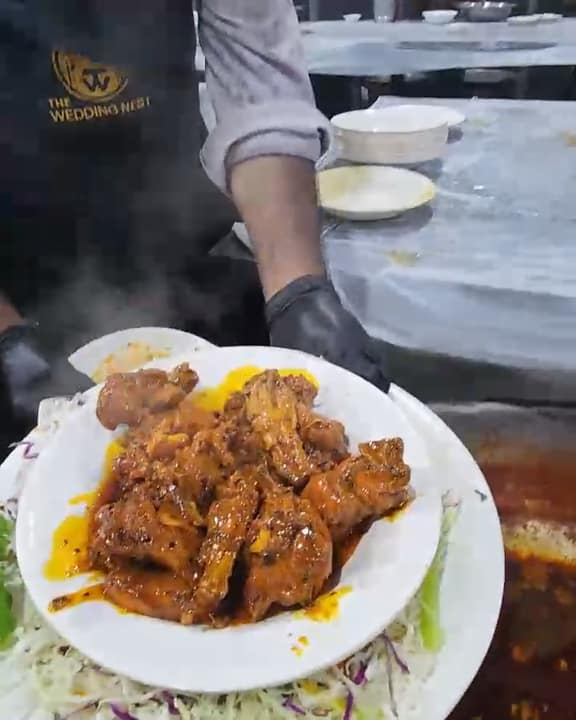
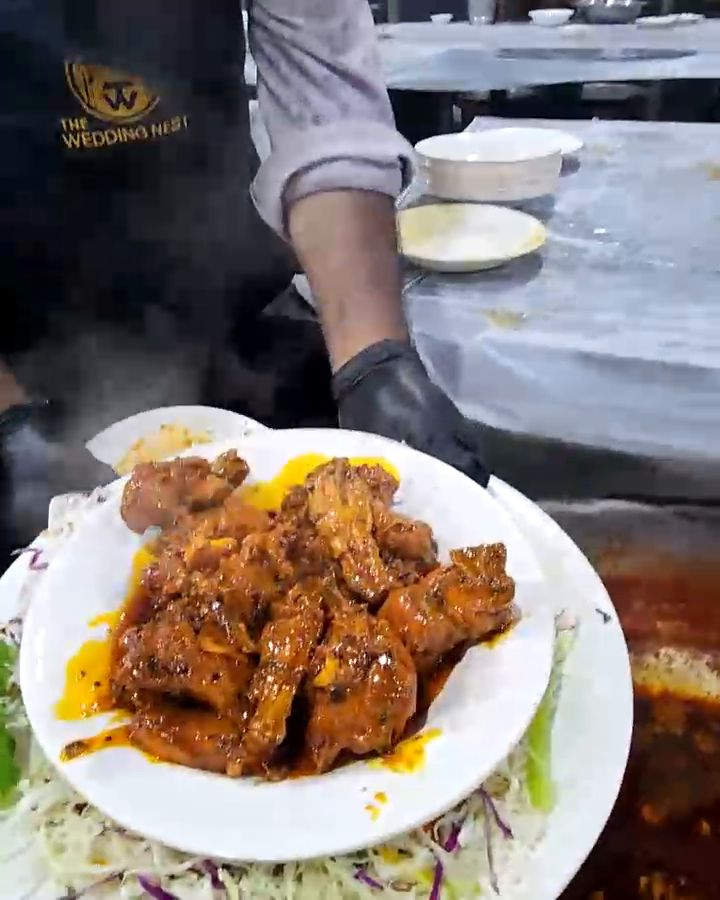
Home: sharper full-resolution kitchen poster; legible service-door captions
The poster is now the same plated frame at the video's native 720x900 (was a
576x720 re-encode at 37 KB). Door captions gain a stronger scrim and soft shadow so
the three-line gifts caption stays readable over bright tulle.

diff --git a/src/styles/global.css b/src/styles/global.css
@@ -987,9 +987,13 @@ footer.on-dark {
   background: linear-gradient(
     to top,
     color-mix(in srgb, var(--door-bg) 92%, black) 0%,
-    color-mix(in srgb, var(--door-bg) 55%, transparent) 55%,
-    transparent 100%
+    color-mix(in srgb, var(--door-bg) 72%, transparent) 55%,
+    color-mix(in srgb, var(--door-bg) 18%, transparent) 100%
   );
+}
+/* Captions sit on bright photographs (tulle, florals): a soft shadow keeps them legible. */
+.door:has(.door-photo) .door-name {
+  text-shadow: 0 1px 14px rgb(0 0 0 / 0.55);
 }
 
 /* Inner pages: panels and photographs land as they enter view (progressive, motion-safe). */
